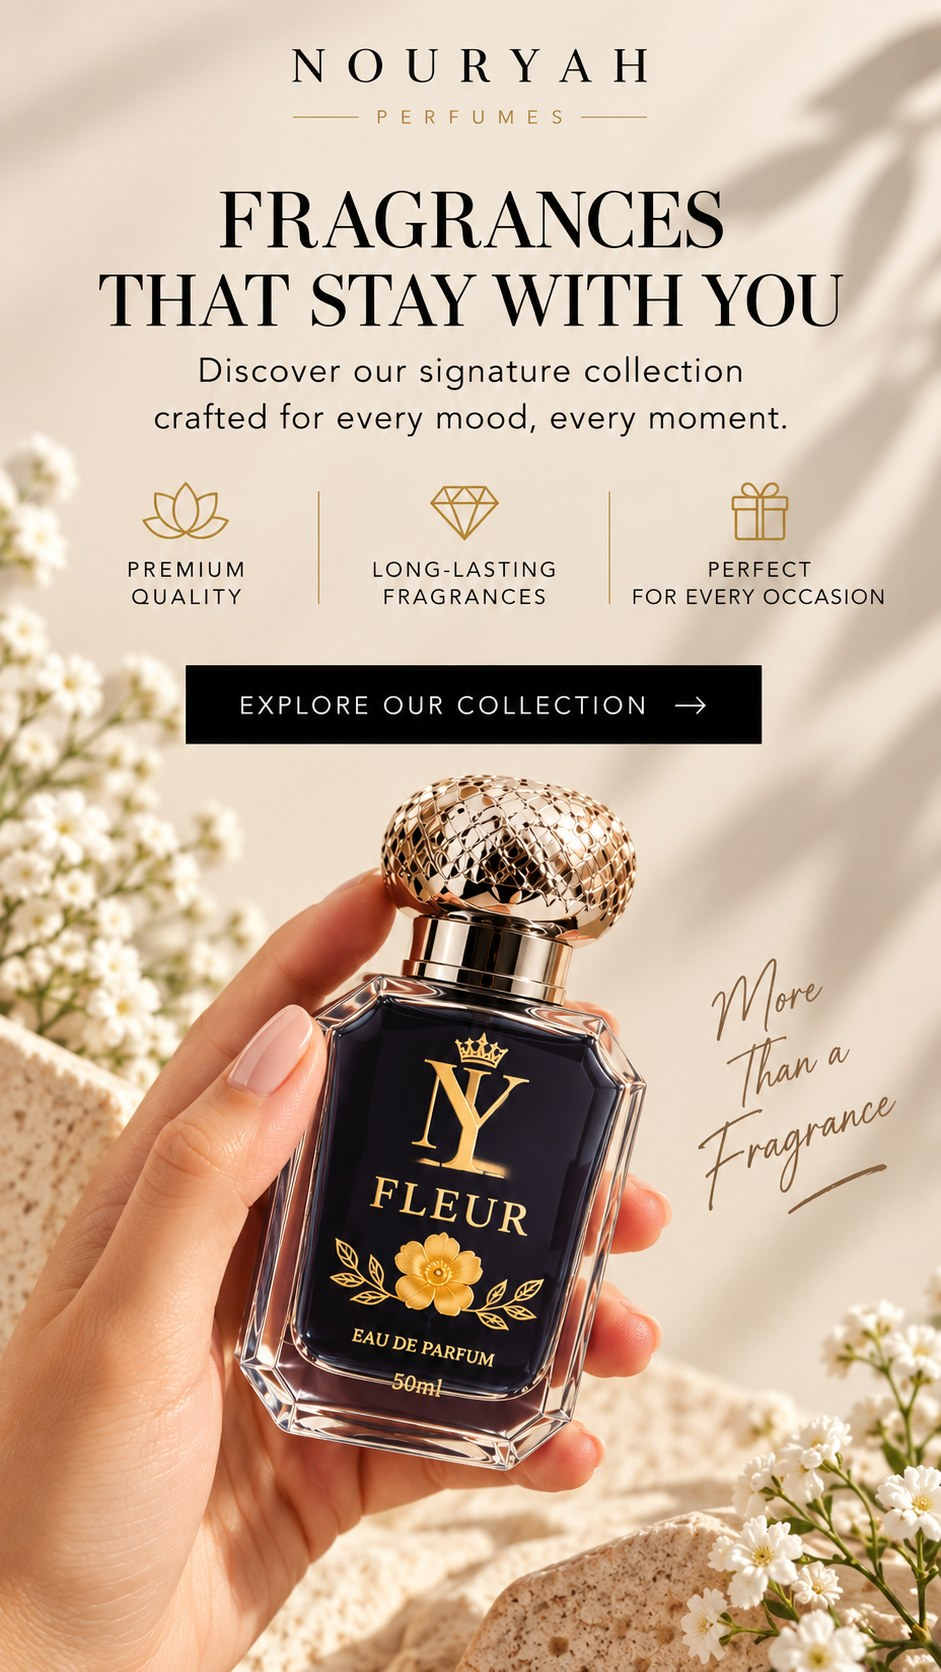
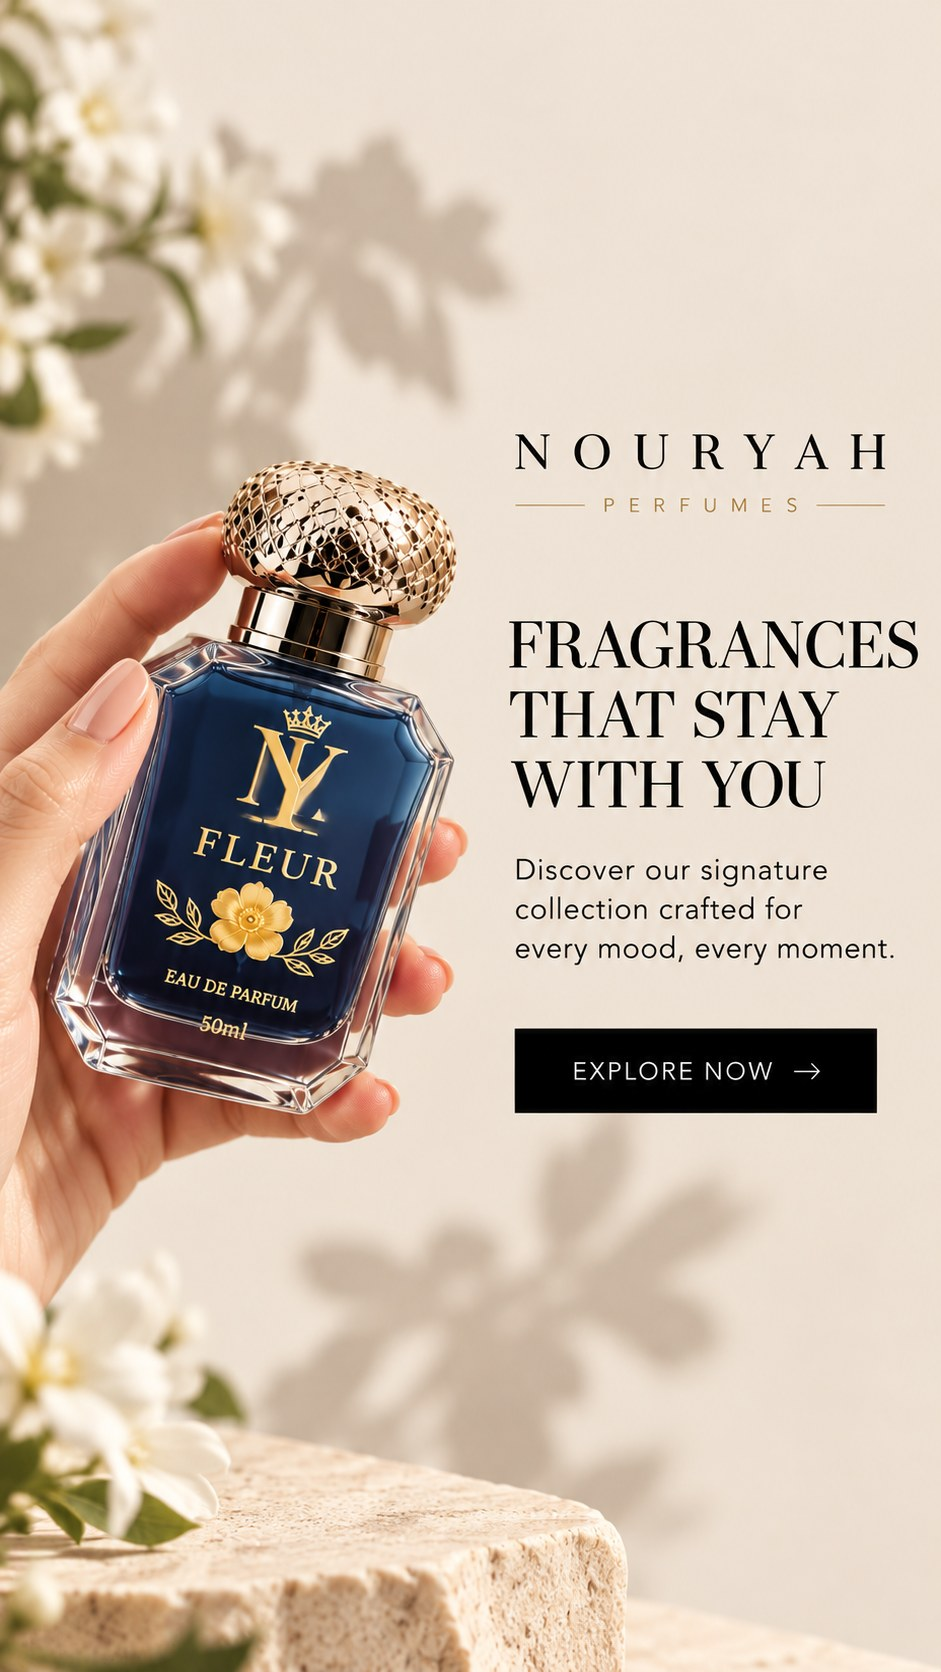
Use the side-by-side variant for the fold on phones
Swaps the fold's phone artwork for the other portrait supplied with it:
bottle on the left, the wordmark, headline and EXPLORE NOW stacked on the
right, rather than the version with the copy above the bottle.

It is the same 941x1672, so the band needs no layout change and the
desktop file is untouched. The letterbox colour follows the new artwork's
own top edge, #E6D9CA to #EBDED0, though with the aspect matching exactly
it should never show.

224KB wide and 200KB portrait.

Verified at 390px and 1440px: the phone serves the new file and desktop
still serves the wide one, both full bleed with the image aspect matching
the band's.

diff --git a/index.html b/index.html
@@ -397,7 +397,7 @@
 
       <section data-r="fold" onClick="{{ goShop }}" role="link" aria-label="Fragrances that stay with you — discover the signature collection, crafted for every mood" style="position:relative;width:100%;aspect-ratio:1877/838;cursor:pointer;border-bottom:1px solid var(--rule);overflow:hidden">
         <div data-r="foldart" role="presentation" style="position:absolute;inset:0;background-color:#DFCDB8;background-image:url(assets/fold-signature.jpg);background-size:cover;background-position:center"></div>
-        <div data-r="foldartm" role="presentation" style="position:absolute;inset:0;background-color:#E6D9CA;background-image:url(assets/fold-signature-m.jpg);background-size:cover;background-position:center"></div>
+        <div data-r="foldartm" role="presentation" style="position:absolute;inset:0;background-color:#EBDED0;background-image:url(assets/fold-signature-m.jpg);background-size:cover;background-position:center"></div>
       </section>
 
       <section data-r="sec" style="max-width:1320px;margin:0 auto;padding:112px clamp(20px,5vw,40px)">
